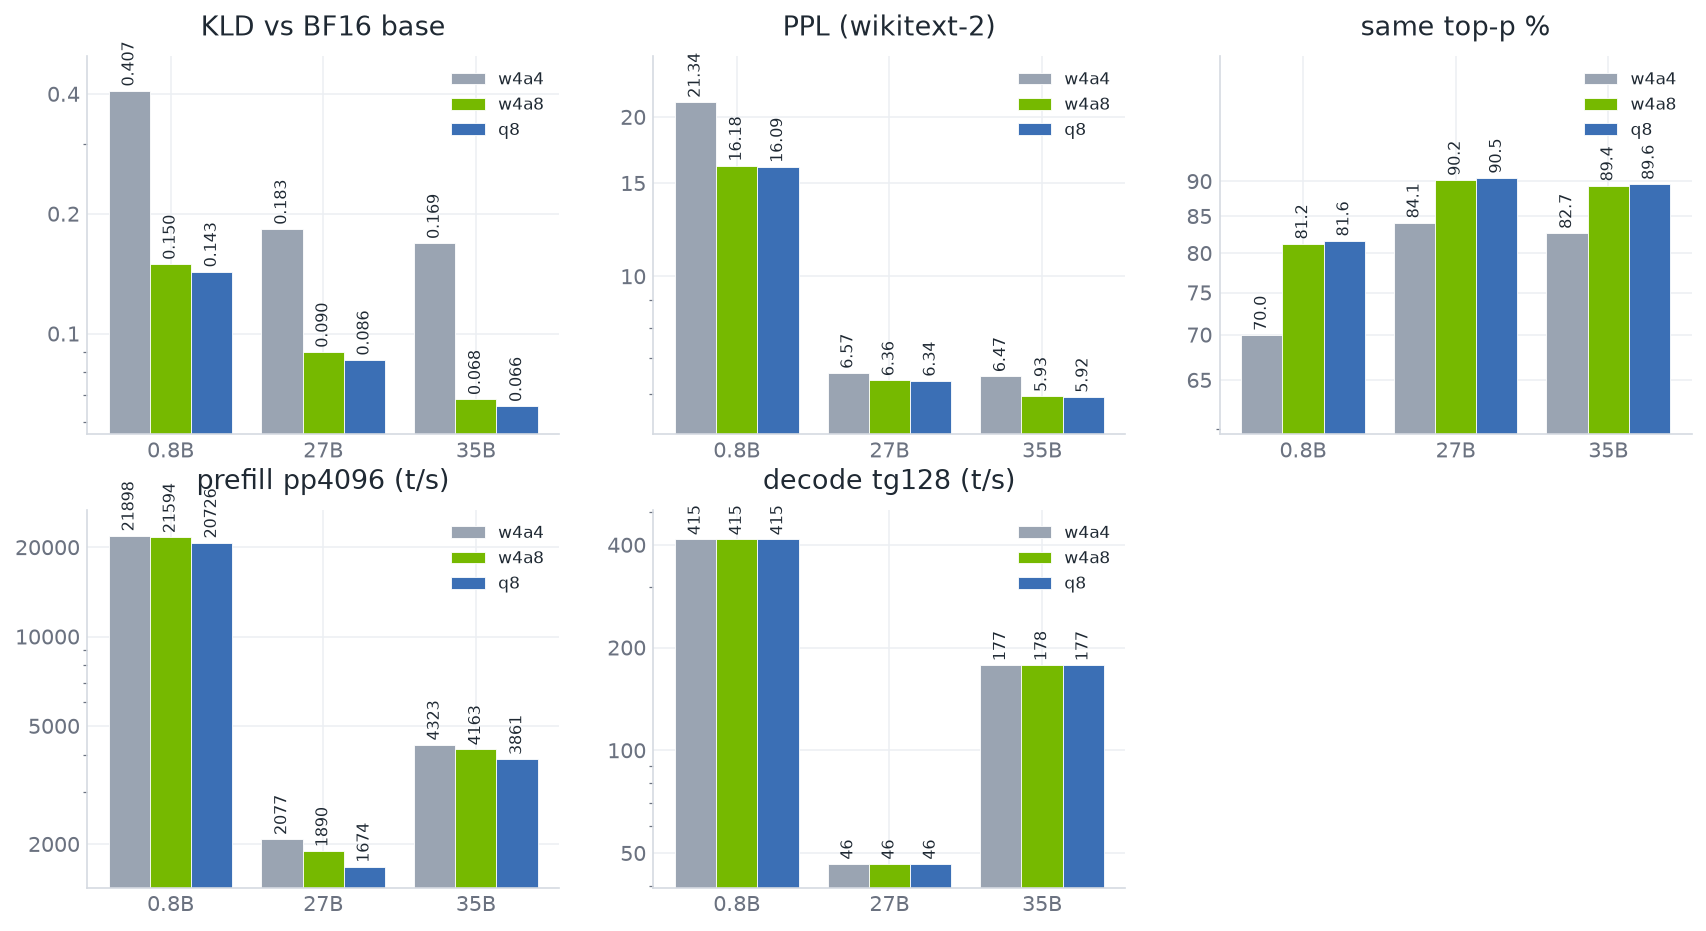
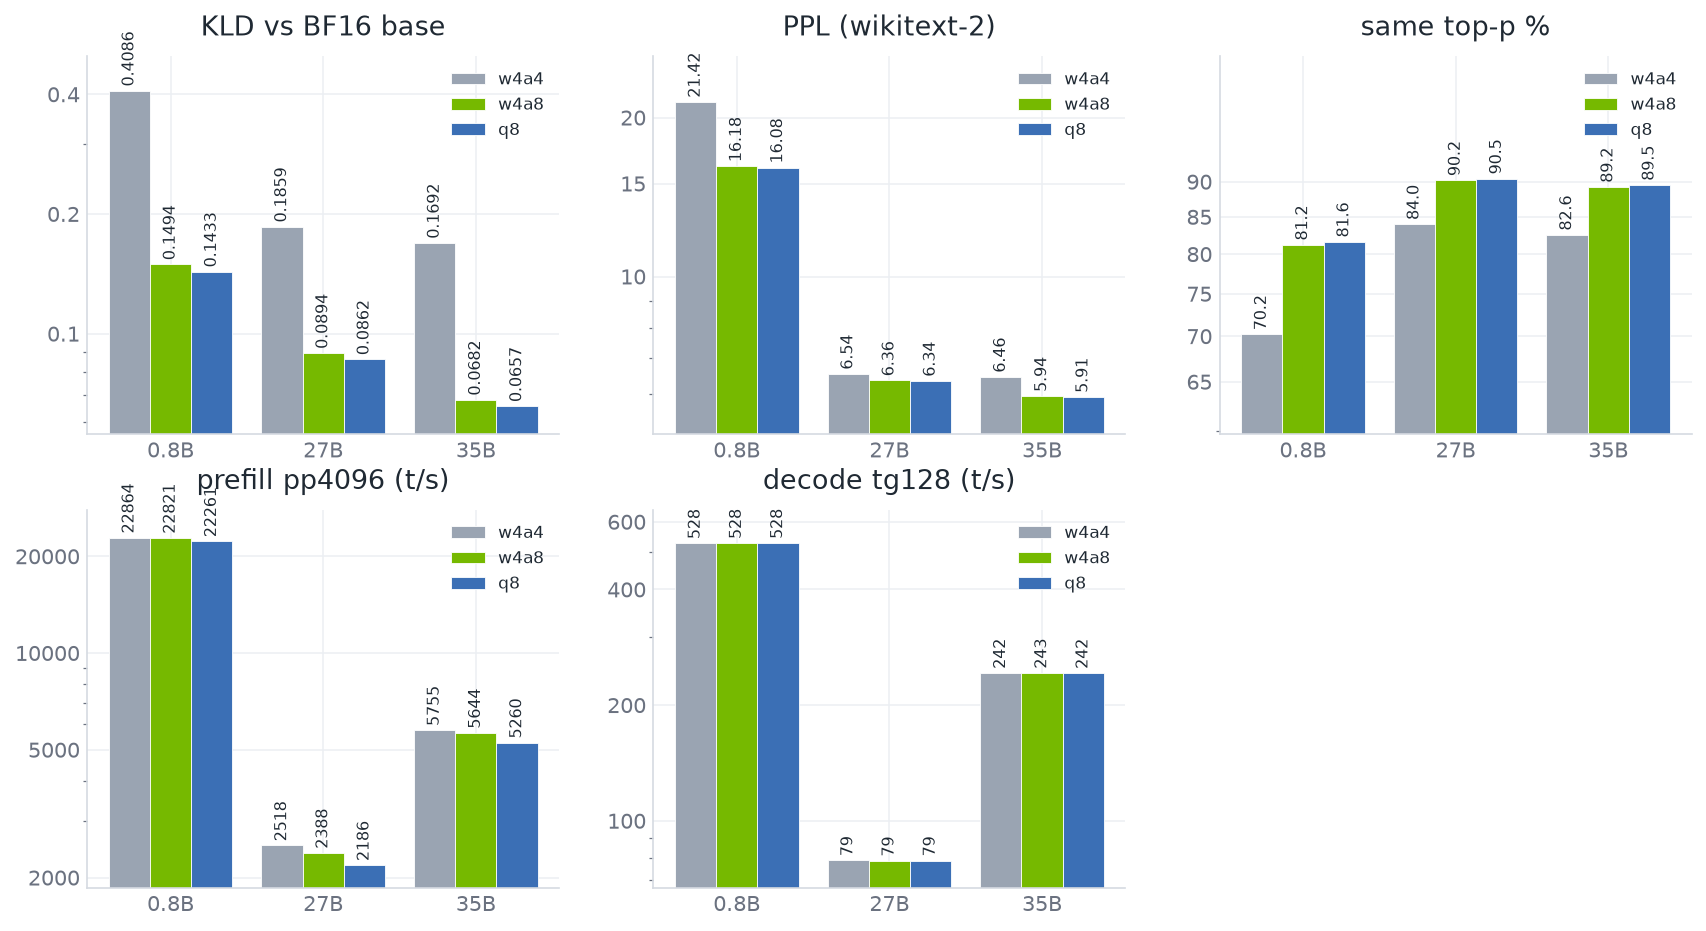
Chart uses 5070 Ti values; KLD to 4 decimals

diff --git a/charts.py b/charts.py
@@ -508,22 +508,22 @@ def hw_5060_5070():
 # ------------------------------------------------------------------ W4A8 vs W4A4 (this branch)
 # imx quants, canonical build, 2x RTX 5060 Ti. (kld, ppl, topp, pp4096, tg128)
 W4A_RES = {
-    "0.8B": {"w4a4": (0.407429, 21.3419, 69.960, 21898, 415.0),
-             "w4a8": (0.149528, 16.1806, 81.248, 21594, 414.6),
-             "q8":   (0.143151, 16.0858, 81.646, 20726, 414.7)},
-    "27B":  {"w4a4": (0.183180,  6.5662, 84.104,  2077, 46.5),
-             "w4a8": (0.089938,  6.3581, 90.166,  1890, 46.5),
-             "q8":   (0.085955,  6.3446, 90.500,  1674, 46.5)},
-    "35B":  {"w4a4": (0.168713,  6.4702, 82.668,  4323, 177.4),
-             "w4a8": (0.068391,  5.9333, 89.356,  4163, 177.5),
-             "q8":   (0.065711,  5.9161, 89.571,  3861, 177.4)},
+    "0.8B": {"w4a4": (0.4086, 21.4186, 70.207, 22864, 527.5),
+             "w4a8": (0.1494, 16.1757, 81.237, 22821, 527.9),
+             "q8":   (0.1433, 16.0827, 81.640, 22261, 528.2)},
+    "27B":  {"w4a4": (0.1859,  6.5416, 84.000,  2518, 78.9),
+             "w4a8": (0.0894,  6.3558, 90.217,  2388, 78.7),
+             "q8":   (0.0862,  6.3436, 90.472,  2186, 78.8)},
+    "35B":  {"w4a4": (0.1692,  6.4566, 82.561,  5755, 242.5),
+             "w4a8": (0.0682,  5.9363, 89.247,  5644, 242.7),
+             "q8":   (0.0657,  5.9126, 89.538,  5260, 242.4)},
 }
 
 def w4a8_results():
     from matplotlib.ticker import FuncFormatter
     fig, ax = new_figure(2, 3, w=4.6, h=3.6)
     models = list(W4A_RES.keys())
-    panels = [("KLD vs BF16 base", 0, [0.05, 0.1, 0.2, 0.4], "%.3f"),
+    panels = [("KLD vs BF16 base", 0, [0.05, 0.1, 0.2, 0.4], "%.4f"),
               ("PPL (wikitext-2)", 1, [5, 10, 15, 20], "%.2f"),
               ("same top-p %", 2, [65, 70, 75, 80, 85, 90], "%.1f"),
               ("prefill pp4096 (t/s)", 3, [1000, 2000, 5000, 10000, 20000, 40000], "%.0f"),

diff --git a/PR-body.md b/PR-body.md
@@ -34,15 +34,15 @@ Accuracy:
 
 | model | arm | KLD | PPL | top-p |
 |---|---|---:|---:|---:|
-| 0.8B  | w4a4 | 0.407429 | 21.3419 | 69.960 |
-| 0.8B  | w4a8 | 0.149528 | 16.1806 | 81.248 |
-| 0.8B  | q8   | 0.143151 | 16.0858 | 81.646 |
-| 27B   | w4a4 | 0.183180 |  6.5662 | 84.104 |
-| 27B   | w4a8 | 0.089938 |  6.3581 | 90.166 |
-| 27B   | q8   | 0.085955 |  6.3446 | 90.500 |
-| 35B   | w4a4 | 0.168713 |  6.4702 | 82.668 |
-| 35B   | w4a8 | 0.068391 |  5.9333 | 89.356 |
-| 35B   | q8   | 0.065711 |  5.9161 | 89.571 |
+| 0.8B  | w4a4 | 0.4086 | 21.4186 | 70.207 |
+| 0.8B  | w4a8 | 0.1494 | 16.1757 | 81.237 |
+| 0.8B  | q8   | 0.1433 | 16.0827 | 81.640 |
+| 27B   | w4a4 | 0.1859 |  6.5416 | 84.000 |
+| 27B   | w4a8 | 0.0894 |  6.3558 | 90.217 |
+| 27B   | q8   | 0.0862 |  6.3436 | 90.472 |
+| 35B   | w4a4 | 0.1692 |  6.4566 | 82.561 |
+| 35B   | w4a8 | 0.0682 |  5.9363 | 89.247 |
+| 35B   | q8   | 0.0657 |  5.9126 | 89.538 |
 
 Throughput, 2x RTX 5070 Ti:
 
